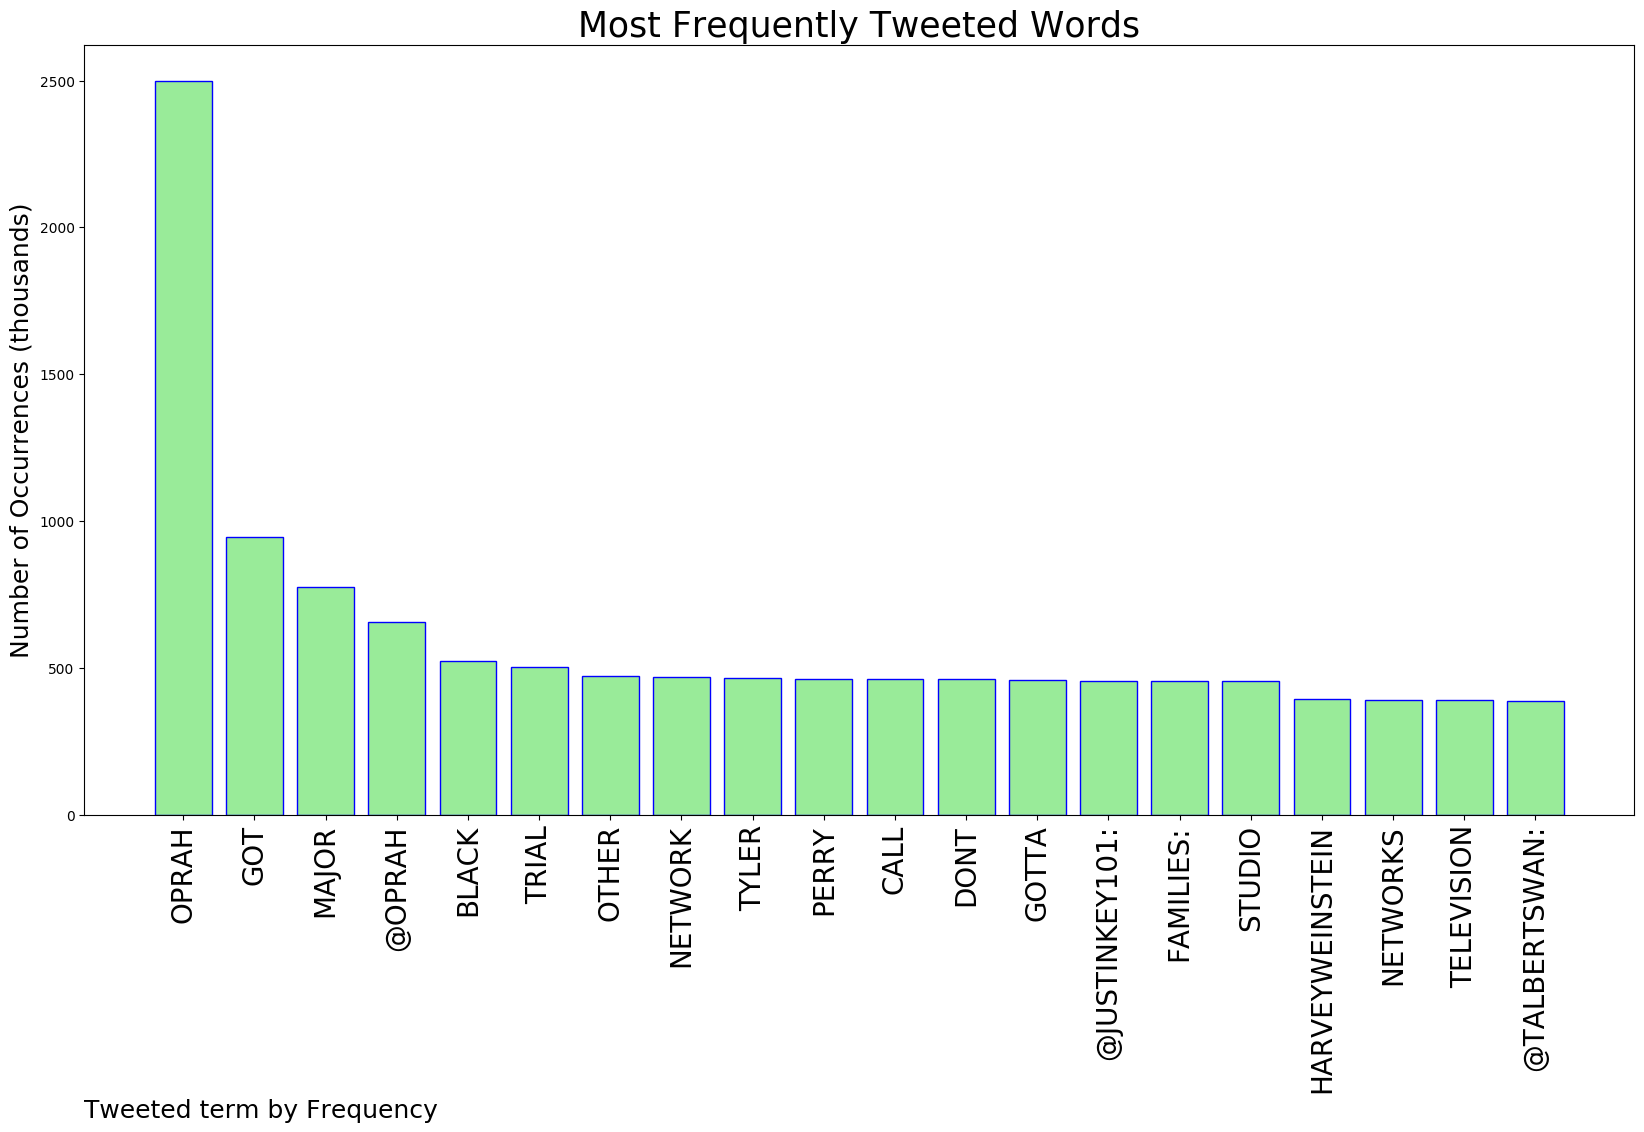
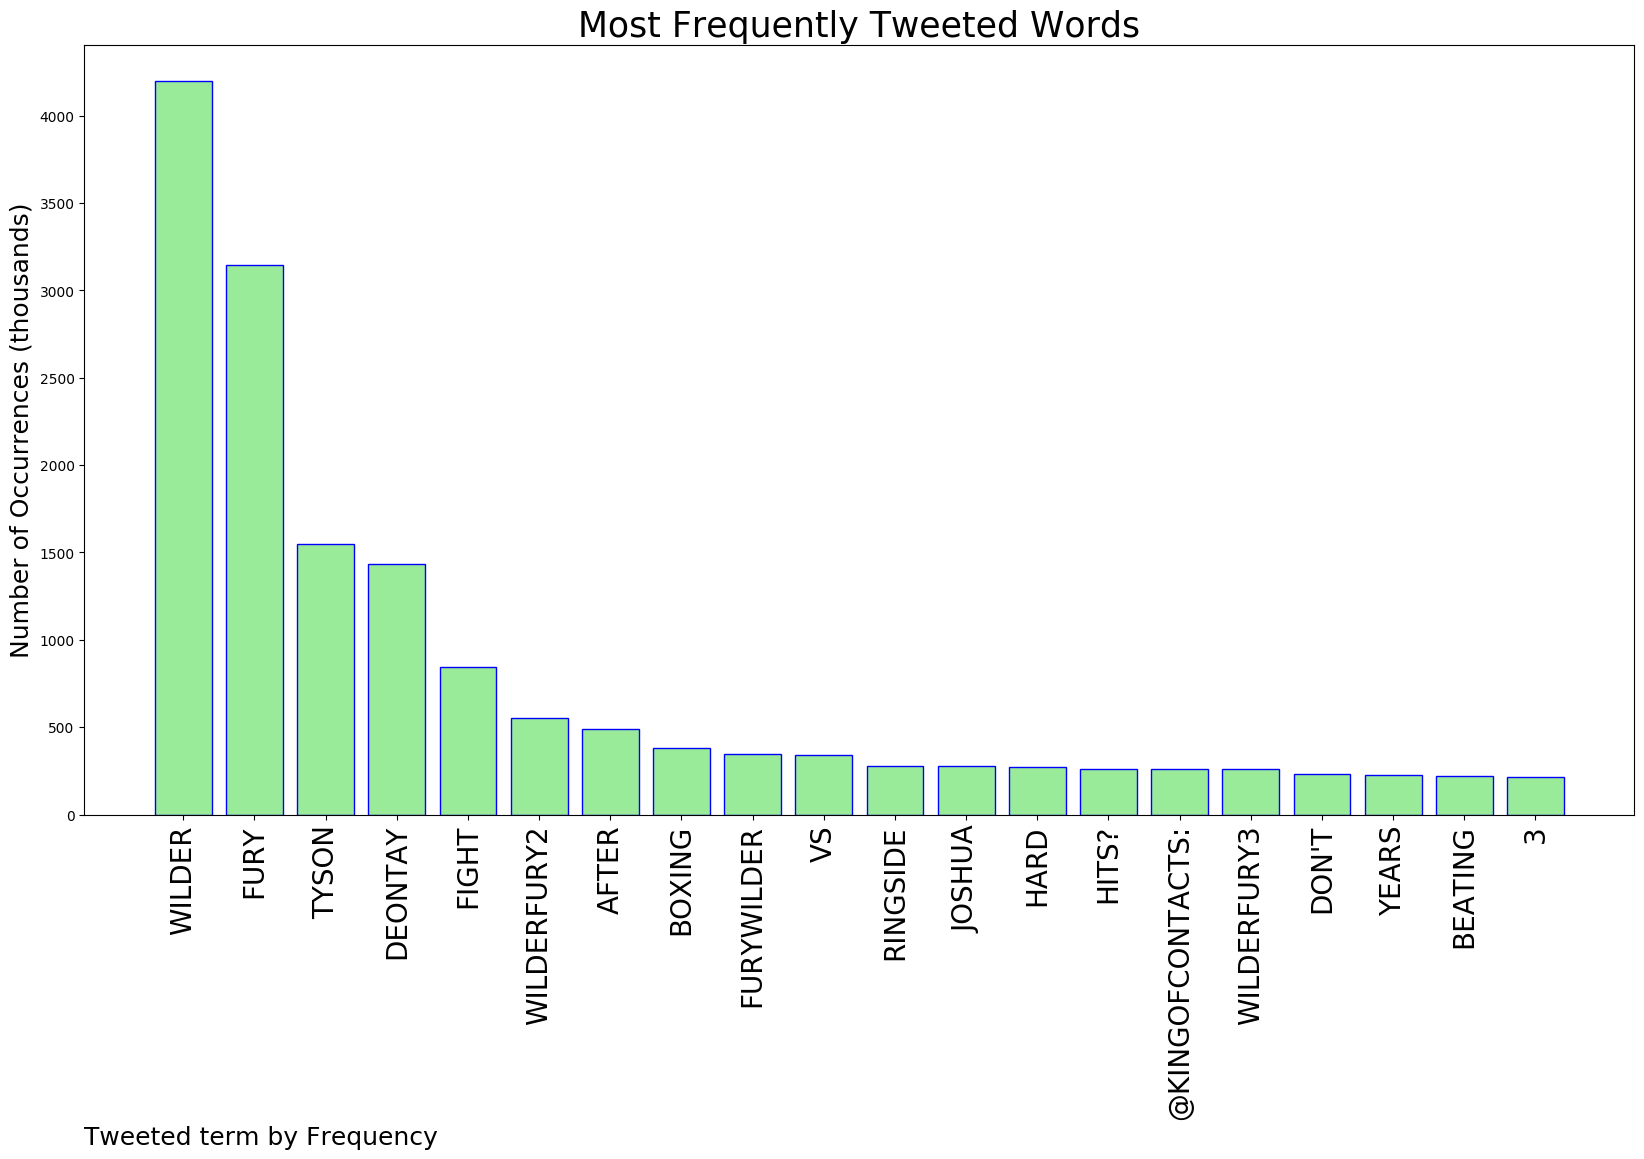
more

diff --git a/README.md b/README.md
@@ -1,5 +1,5 @@
 # MURCHIE85 TWITTER PROCESSING 
-&#x1F34E; **TOPIC = "Oprah"**
+&#x1F34E; **TOPIC = "Wilder"**
 
 ## AUTOMATED RESEARCH SUMMARY
 
@@ -15,22 +15,22 @@
 
 |                **Sample-Tweets**        |
 | :-------------: |
-| RT @ChaseCenter: Thank you @oprah for an amazing, transformative day 👏 https://t.co/A9Ndw75zSo |
-| It’s Real every Sunday! Tune in Tomorrow 5:30 am and 6am CST for #RealTalk-the interview with Gayle King… https://t.co/gQtxKcvfxC |
-| Successful marriage is directly linked to Oprah Winfrey's love for Danny Phantom |
+| RT @Tommyskizy: Tyson Fury wore this gumshield tonight in his match with Wilder. A message to Anthony Joshua?#Naija2ThaWorld https://t.co… |
+| RT @ElTelBoxing: Tyson Fury embarrassed Deontay Wilder by handing him a brutal beating for the duration of the fight.Please don't waste o… |
+| RT @kevinsylvestar: 😰😢😭 Jesus who I b! Who I b na! Who b me wey no go thank and praise You for wetin you don do for me 😭🙌🙏😥Fury Wilder Jo… |
 
-The most popular user is: **DorkyEvil**
-<div class="alert alert-block alert-danger"> RT @HeidiStevens13: When I saw Oprah interview Michelle Obama, Oprah asked how Michelle got over feeling intimidated sitting at big tables…</div>
+The most popular user is: **ryangoIdy8**
+<div class="alert alert-block alert-danger"> RT @BTSportBoxing: Tyson Fury spotted Deontay Wilder watching the same weigh-ins feed as him and mocked him 😂 #WilderFury2 https://t.co/muH…</div>
 
 ## RELATED METRICS<br>
 | Metric | Value |
 | ------------- | ------------- |
-| #1 Most tweeted to  | **Oprah** |
-| #2 Most tweeted to  | **JustinKey101** |
-| #3 Most tweeted to  | **TalbertSwan** |
-| NewProfiles (less than 10 days) | 1.22%  |
-| Tweeters with < 10 followers  | 4.68%|
-| Tweeters with > 1000000 followers  | 0.14%  |
+| #1 Most tweeted to  | **KingOfContacts** |
+| #2 Most tweeted to  | **espn** |
+| #3 Most tweeted to  | **Tyson_Fury** |
+| NewProfiles (less than 10 days) | 0.66%  |
+| Tweeters with < 10 followers  | 3.24%|
+| Tweeters with > 1000000 followers  | 0.1%  |
 
 
 
@@ -39,28 +39,28 @@ The most popular user is: **DorkyEvil**
 
 | Popularity Rank  | Term |
 | ------------- | ------------- |
-| first  | **OPRAH**  |
-| second  | **GOT**  |
-| third  | **MAJOR** |
-| fourth  | **@OPRAH**  |
-| fifth  | **BLACK**  |
+| first  | **WILDER**  |
+| second  | **FURY**  |
+| third  | **TYSON** |
+| fourth  | **DEONTAY**  |
+| fifth  | **FIGHT**  |
 
 
 ## Twitter Bio Analysis![image](BIO.png)
 ### SENTIMENT ANALYSIS
 ![image](sentiment.png)
-VIEWS WERE : **SUBJECTIVE**  (13.33%) & **NEGATIVELY-SUBJECTIVE** (33.33%) **OBJECTIVE** (53.33%)
+VIEWS WERE : **SUBJECTIVE**  (40.0%) & **NEGATIVELY-SUBJECTIVE** (20.0%) **OBJECTIVE** (40.0%)
 
 ### TWEET SAMPLE 
 | Random value picked from array |
 | ------------- |
-|RT @michelebolgla: Congratulations to @PreetBharara  on making Oprah’s list of best political podcasts! https://t.co/j9Hi3ygDpa |
+|RT @MichaelBensonn: 🤜 How the boxing world reacted to Tyson Fury stopping Deontay Wilder… https://t.co/8OgeloHtzC |
 
 ### MOST RETWEETED 
 
-| The most retweeted user is: **DorkyEvil**  |
+| The most retweeted user is: **ryangoIdy8**  |
 | ------------- |
-| RT @HeidiStevens13: When I saw Oprah interview Michelle Obama, Oprah asked how Michelle got over feeling intimidated sitting at big tables… |
+| RT @BTSportBoxing: Tyson Fury spotted Deontay Wilder watching the same weigh-ins feed as him and mocked him 😂 #WilderFury2 https://t.co/muH… |
 
 ### CONCLUSION & EXTERNAL ANALYSIS
 
